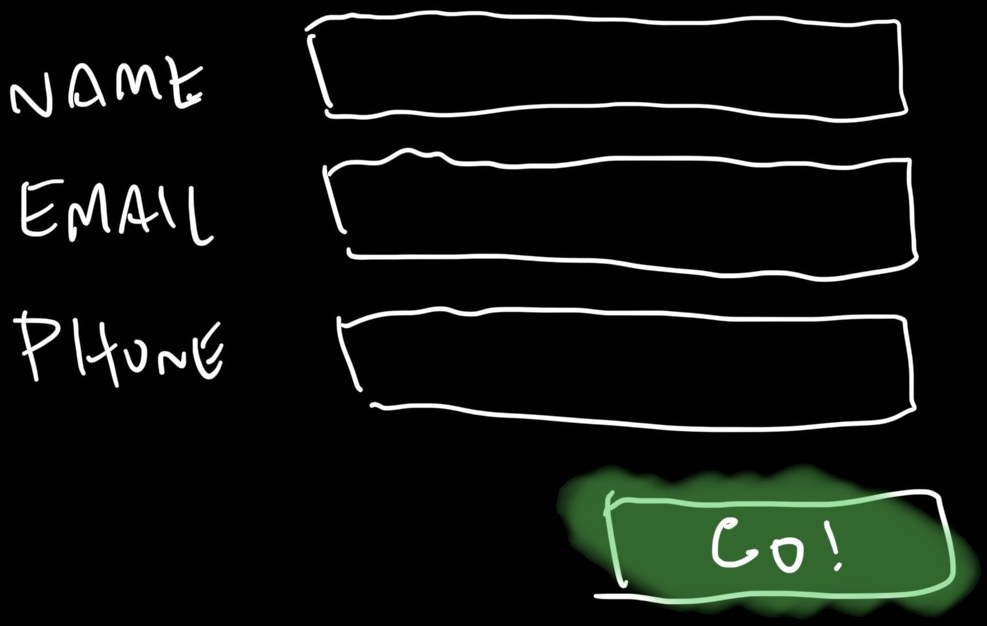
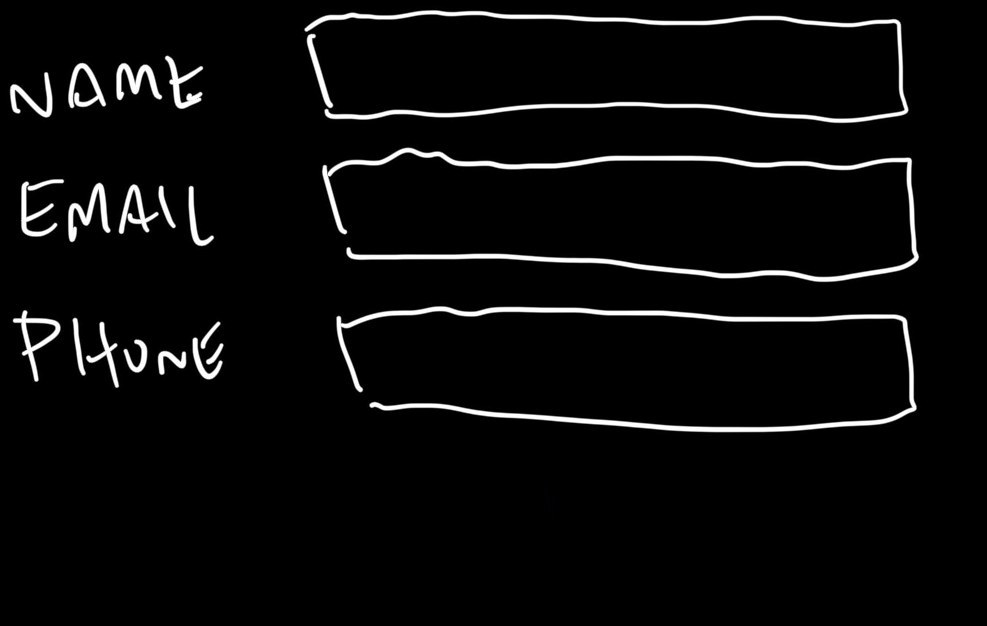
Make the Contact Me and Go! buttons boil all the time
Cuts Go! into its own piece (p-go.jpg) so it can boil without the form
around it. Both buttons line-boil constantly, faster on hover, and stay
still for reduced-motion visitors.

Claude-Session: https://claude.ai/code/session_01Vuk7ZTkxEMue6cRefp9o1U

Changed region(s): [[0.5471, 0.7284, 1.0, 1.0]]

diff --git a/index.html b/index.html
@@ -79,6 +79,12 @@
       html { scroll-behavior: auto; }
       .piece > img { animation: none !important; }
     }
+
+    /* Line boil on the drawn buttons, all the time (a bit faster when pointed at) */
+    .p-contact > img, .p-go { animation: boil .45s steps(1) infinite; }
+    .p-go { position: absolute; display: block; height: auto; mix-blend-mode: lighten; pointer-events: none; }
+    .piece:has(> a.hot:hover) > img, .p-form:has(button.hot:hover) .p-go { animation-duration: .2s; }
+    @media (prefers-reduced-motion: reduce) { .p-go { animation: none !important; } }
   </style>
 </head>
 <body id="top">
@@ -106,6 +112,7 @@
           <div class="hot" style="left:32.83%;top:4.31%;width:57.24%;height:11.98%"><label class="sr-only" for="f-name">Name</label><input id="f-name" name="name" type="text" autocomplete="name" required></div>
           <div class="hot" style="left:34.35%;top:27.48%;width:56.74%;height:11.98%"><label class="sr-only" for="f-email">Email</label><input id="f-email" name="email" type="email" autocomplete="email" required></div>
           <div class="hot" style="left:35.87%;top:52.24%;width:55.22%;height:12.78%"><label class="sr-only" for="f-phone">Phone</label><input id="f-phone" name="phone" type="tel" autocomplete="tel" inputmode="tel"></div>
+          <img class="p-go" src="p-go.jpg" width="445" height="180" alt="" style="left:56.13%;top:73.802%;width:45.086%">
           <button class="hot" type="submit" style="left:61.20%;top:80.19%;width:34.45%;height:14.38%">Go!</button>
           <p class="hot thanks" role="status" style="left:0;top:100%;width:100%;height:auto;padding-top:1.5%"></p>
         </div>

diff --git a/README.md b/README.md
@@ -4,7 +4,7 @@ Eric's personal site, built straight from his hand-drawn mockup (`source.jpg`).
 
 - The drawing is cut into pieces along its pen strokes (`p-*.jpg`). On desktop each piece sits exactly where it was drawn; on phones (720px and narrower) the same pieces stack vertically.
 - The links, the three form fields and the **Go!** button are real, invisible elements laid over the drawn boxes, so the page looks exactly like the drawing but works.
-- **Boiling lines:** pointing at a drawn link makes its pen strokes shimmer like hand-drawn animation frames, and the section you jump to boils briefly when you land (SVG turbulence filters in `index.html`). Turned off for visitors who prefer reduced motion.
+- **Boiling lines (line boil):** the Contact Me and Go! buttons boil all the time (Go! is its own piece, `p-go.jpg`, so the form around it stays still). Pointing at a drawn link makes it boil faster, and the section you jump to boils briefly when you land (SVG turbulence filters in `index.html`). Turned off for visitors who prefer reduced motion.
 - No build step: open `index.html` in a browser, or serve the folder from any static host (GitHub Pages, Netlify, Cloudflare Pages).
 
 **Contact form → Formspree.** The form is wired for [Formspree](https://formspree.io): it sends in the background and shows "Thanks! Talk soon." (or a retry message if sending fails), with a hidden spam trap. The form's `action` in `index.html` is `https://formspree.io/f/xbggzdpo`; set it back to `#` for demo mode.
